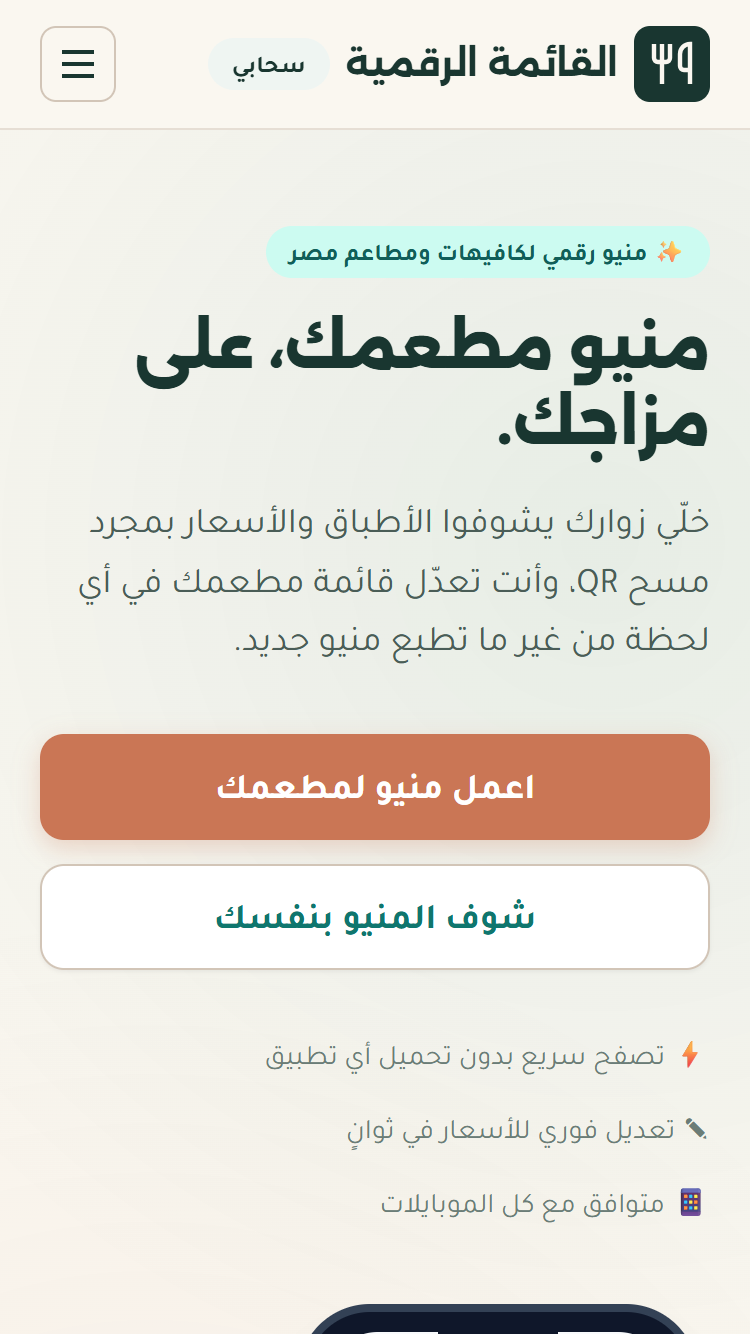
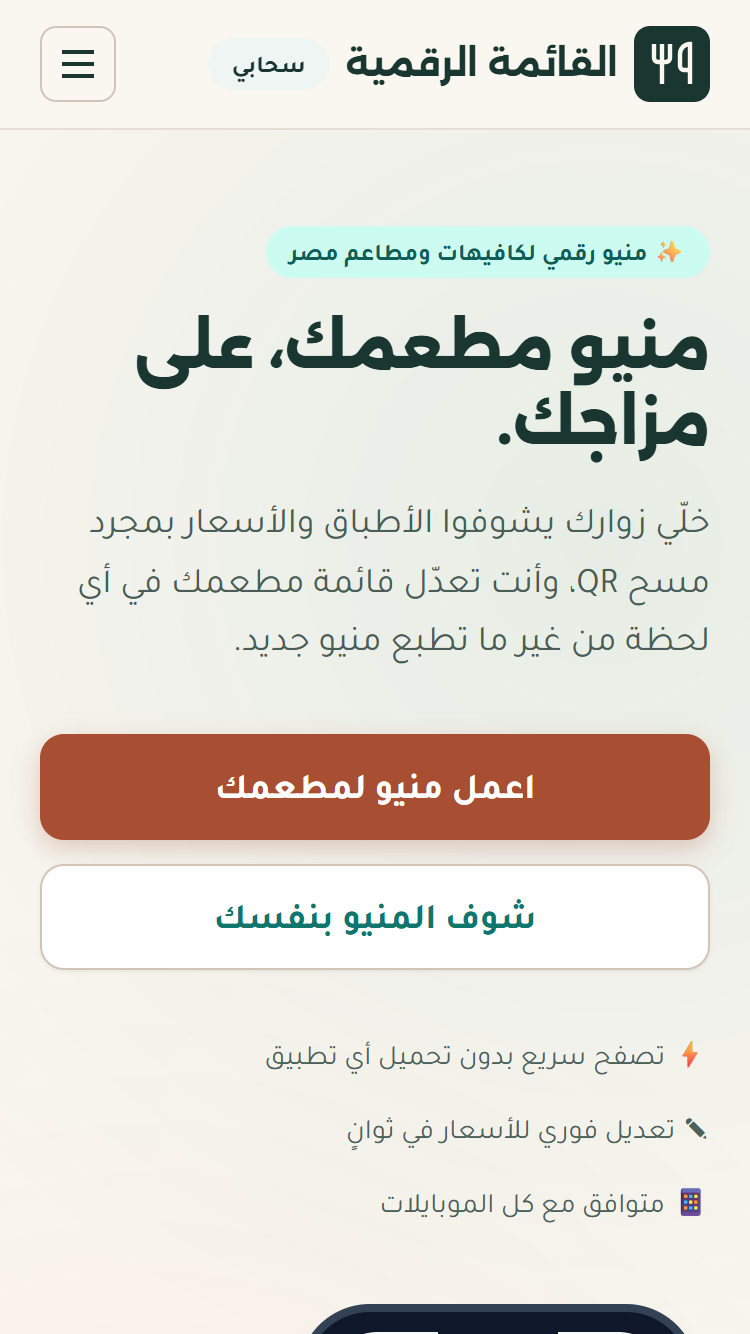
fix(ui): resolve PR #40 review findings for contrast, copy, and assets
- Ensure WCAG 2.2 AA contrast compliance for Terracotta (#A84E32), Terracotta hover (#933E24), badge text (#8F3C22), and muted text (#4D615B)
- Add automated tests in test-design-alignment.mjs for contrast pairs
- Replace unsupported claim with truthful 'باقة متكاملة' and formal copy with 'مناسبة لمين؟'
- Replace pseudo-QR with scannable /r/demo vector QR and illustrative label
- Remove duplicate Google Fonts @import from styles.css
- Remove 7 redundant root screenshots and direct captures to screenshots/after/

diff --git a/frontend/src/app/marketing.ts b/frontend/src/app/marketing.ts
@@ -42,7 +42,7 @@ interface ServiceRequestForm {
         <nav class="desktop-nav" aria-label="التنقل الرئيسي">
           <a href="#features" class="nav-link">المميزات</a>
           <a href="#how-it-works" class="nav-link">الخدمة بتشتغل إزاي؟</a>
-          <a href="#audience" class="nav-link">لمن صُممت؟</a>
+          <a href="#audience" class="nav-link">مناسبة لمين؟</a>
           <a href="#pricing" class="nav-link">الأسعار</a>
           <a href="#faq" class="nav-link">الأسئلة الشائعة</a>
           <a routerLink="/r/demo" class="nav-link nav-link-highlight">منيو تجريبي ☕</a>
@@ -94,7 +94,7 @@ interface ServiceRequestForm {
           <a href="#how-it-works" class="mobile-nav-link" (click)="closeMobileNav()"
             >الخدمة بتشتغل إزاي؟</a
           >
-          <a href="#audience" class="mobile-nav-link" (click)="closeMobileNav()">لمن صُممت؟</a>
+          <a href="#audience" class="mobile-nav-link" (click)="closeMobileNav()">مناسبة لمين؟</a>
           <a href="#pricing" class="mobile-nav-link" (click)="closeMobileNav()">الأسعار</a>
           <a href="#faq" class="mobile-nav-link" (click)="closeMobileNav()">الأسئلة الشائعة</a>
           <a
@@ -172,56 +172,23 @@ interface ServiceRequestForm {
               <div class="table-stand-mockup">
                 <div class="stand-acrylic">
                   <div class="stand-qr-box">
-                    <!-- SVG QR Representation -->
-                    <svg viewBox="0 0 100 100" width="80" height="80" fill="currentColor">
-                      <!-- Position detection patterns -->
-                      <rect
-                        x="5"
-                        y="5"
-                        width="30"
-                        height="30"
-                        rx="4"
-                        fill="none"
-                        stroke="#193630"
-                        stroke-width="6"
+                    <!-- Real Scannable /r/demo Vector QR Code -->
+                    <svg
+                      xmlns="http://www.w3.org/2000/svg"
+                      viewBox="0 0 25 25"
+                      width="80"
+                      height="80"
+                      shape-rendering="crispEdges"
+                      aria-label="كود QR تجريبي لتصفح المنيو"
+                    >
+                      <rect width="25" height="25" fill="#ffffff" />
+                      <path
+                        d="M2,2h1v1h-1z M3,2h1v1h-1z M4,2h1v1h-1z M5,2h1v1h-1z M6,2h1v1h-1z M7,2h1v1h-1z M8,2h1v1h-1z M10,2h1v1h-1z M11,2h1v1h-1z M16,2h1v1h-1z M17,2h1v1h-1z M18,2h1v1h-1z M19,2h1v1h-1z M20,2h1v1h-1z M21,2h1v1h-1z M22,2h1v1h-1z M2,3h1v1h-1z M8,3h1v1h-1z M12,3h1v1h-1z M16,3h1v1h-1z M22,3h1v1h-1z M2,4h1v1h-1z M4,4h1v1h-1z M5,4h1v1h-1z M6,4h1v1h-1z M8,4h1v1h-1z M10,4h1v1h-1z M11,4h1v1h-1z M16,4h1v1h-1z M18,4h1v1h-1z M19,4h1v1h-1z M20,4h1v1h-1z M22,4h1v1h-1z M2,5h1v1h-1z M4,5h1v1h-1z M5,5h1v1h-1z M6,5h1v1h-1z M8,5h1v1h-1z M11,5h1v1h-1z M13,5h1v1h-1z M16,5h1v1h-1z M18,5h1v1h-1z M19,5h1v1h-1z M20,5h1v1h-1z M22,5h1v1h-1z M2,6h1v1h-1z M4,6h1v1h-1z M5,6h1v1h-1z M6,6h1v1h-1z M8,6h1v1h-1z M10,6h1v1h-1z M11,6h1v1h-1z M12,6h1v1h-1z M14,6h1v1h-1z M16,6h1v1h-1z M18,6h1v1h-1z M19,6h1v1h-1z M20,6h1v1h-1z M22,6h1v1h-1z M2,7h1v1h-1z M8,7h1v1h-1z M11,7h1v1h-1z M12,7h1v1h-1z M14,7h1v1h-1z M16,7h1v1h-1z M22,7h1v1h-1z M2,8h1v1h-1z M3,8h1v1h-1z M4,8h1v1h-1z M5,8h1v1h-1z M6,8h1v1h-1z M7,8h1v1h-1z M8,8h1v1h-1z M10,8h1v1h-1z M12,8h1v1h-1z M14,8h1v1h-1z M16,8h1v1h-1z M17,8h1v1h-1z M18,8h1v1h-1z M19,8h1v1h-1z M20,8h1v1h-1z M21,8h1v1h-1z M22,8h1v1h-1z M11,9h1v1h-1z M13,9h1v1h-1z M14,9h1v1h-1z M3,10h1v1h-1z M6,10h1v1h-1z M8,10h1v1h-1z M12,10h1v1h-1z M13,10h1v1h-1z M18,10h1v1h-1z M20,10h1v1h-1z M22,10h1v1h-1z M2,11h1v1h-1z M4,11h1v1h-1z M5,11h1v1h-1z M6,11h1v1h-1z M11,11h1v1h-1z M12,11h1v1h-1z M16,11h1v1h-1z M17,11h1v1h-1z M19,11h1v1h-1z M22,11h1v1h-1z M3,12h1v1h-1z M8,12h1v1h-1z M9,12h1v1h-1z M10,12h1v1h-1z M11,12h1v1h-1z M14,12h1v1h-1z M18,12h1v1h-1z M21,12h1v1h-1z M22,12h1v1h-1z M2,13h1v1h-1z M3,13h1v1h-1z M4,13h1v1h-1z M5,13h1v1h-1z M6,13h1v1h-1z M7,13h1v1h-1z M11,13h1v1h-1z M16,13h1v1h-1z M18,13h1v1h-1z M19,13h1v1h-1z M22,13h1v1h-1z M3,14h1v1h-1z M5,14h1v1h-1z M7,14h1v1h-1z M8,14h1v1h-1z M9,14h1v1h-1z M11,14h1v1h-1z M14,14h1v1h-1z M16,14h1v1h-1z M17,14h1v1h-1z M21,14h1v1h-1z M10,15h1v1h-1z M13,15h1v1h-1z M15,15h1v1h-1z M17,15h1v1h-1z M18,15h1v1h-1z M20,15h1v1h-1z M21,15h1v1h-1z M22,15h1v1h-1z M2,16h1v1h-1z M3,16h1v1h-1z M4,16h1v1h-1z M5,16h1v1h-1z M6,16h1v1h-1z M7,16h1v1h-1z M8,16h1v1h-1z M12,16h1v1h-1z M13,16h1v1h-1z M15,16h1v1h-1z M16,16h1v1h-1z M17,16h1v1h-1z M18,16h1v1h-1z M19,16h1v1h-1z M22,16h1v1h-1z M2,17h1v1h-1z M8,17h1v1h-1z M11,17h1v1h-1z M13,17h1v1h-1z M14,17h1v1h-1z M15,17h1v1h-1z M22,17h1v1h-1z M2,18h1v1h-1z M4,18h1v1h-1z M5,18h1v1h-1z M6,18h1v1h-1z M8,18h1v1h-1z M10,18h1v1h-1z M11,18h1v1h-1z M12,18h1v1h-1z M13,18h1v1h-1z M15,18h1v1h-1z M16,18h1v1h-1z M17,18h1v1h-1z M21,18h1v1h-1z M22,18h1v1h-1z M2,19h1v1h-1z M4,19h1v1h-1z M5,19h1v1h-1z M6,19h1v1h-1z M8,19h1v1h-1z M16,19h1v1h-1z M17,19h1v1h-1z M18,19h1v1h-1z M21,19h1v1h-1z M2,20h1v1h-1z M4,20h1v1h-1z M5,20h1v1h-1z M6,20h1v1h-1z M8,20h1v1h-1z M11,20h1v1h-1z M12,20h1v1h-1z M14,20h1v1h-1z M17,20h1v1h-1z M18,20h1v1h-1z M20,20h1v1h-1z M22,20h1v1h-1z M2,21h1v1h-1z M8,21h1v1h-1z M10,21h1v1h-1z M12,21h1v1h-1z M16,21h1v1h-1z M21,21h1v1h-1z M2,22h1v1h-1z M3,22h1v1h-1z M4,22h1v1h-1z M5,22h1v1h-1z M6,22h1v1h-1z M7,22h1v1h-1z M8,22h1v1h-1z M14,22h1v1h-1z M16,22h1v1h-1z M17,22h1v1h-1z M18,22h1v1h-1z M21,22h1v1h-1z M22,22h1v1h-1z"
+                        fill="#193630"
                       />
-                      <rect x="15" y="15" width="10" height="10" fill="#193630" />
-                      <rect
-                        x="65"
-                        y="5"
-                        width="30"
-                        height="30"
-                        rx="4"
-                        fill="none"
-                        stroke="#193630"
-                        stroke-width="6"
-                      />
-                      <rect x="75" y="15" width="10" height="10" fill="#193630" />
-                      <rect
-                        x="5"
-                        y="65"
-                        width="30"
-                        height="30"
-                        rx="4"
-                        fill="none"
-                        stroke="#193630"
-                        stroke-width="6"
-                      />
-                      <rect x="15" y="75" width="10" height="10" fill="#193630" />
-                      <!-- Pattern modules -->
-                      <rect x="42" y="10" width="8" height="8" fill="#0f766e" />
-                      <rect x="45" y="25" width="6" height="6" fill="#193630" />
-                      <rect x="10" y="45" width="8" height="6" fill="#0f766e" />
-                      <rect x="25" y="45" width="8" height="8" fill="#193630" />
-                      <rect x="42" y="42" width="16" height="16" rx="2" fill="#ca7655" />
-                      <rect x="65" y="45" width="12" height="8" fill="#193630" />
-                      <rect x="85" y="45" width="6" height="12" fill="#0f766e" />
-                      <rect x="45" y="65" width="8" height="10" fill="#193630" />
-                      <rect x="65" y="65" width="10" height="8" fill="#0f766e" />
-                      <rect x="80" y="75" width="12" height="12" fill="#193630" />
                     </svg>
                   </div>
-                  <span class="stand-caption">امسح لتصفح المنيو</span>
+                  <span class="stand-caption">معاينة توضيحية لكود الطاولة</span>
                 </div>
                 <div class="stand-base"></div>
               </div>
@@ -460,7 +427,7 @@ interface ServiceRequestForm {
       <section id="audience" class="section-padded bg-muted">
         <div class="container">
           <div class="section-header text-center">
-            <span class="badge badge-forest">لمن صُممت؟</span>
+            <span class="badge badge-forest">مناسبة لمين؟</span>
             <h2 class="section-title">مصمم لكافيهات ومطاعم بتفكر لقدام</h2>
             <p class="section-subtitle">
               حلول عملية تناسب كل مكان بيهتم بتقديم تجربة شيك ومريحة لزبائنه.
@@ -539,7 +506,7 @@ interface ServiceRequestForm {
 
             <!-- Tier 2 (Highlighted) -->
             <div class="pricing-card card-featured">
-              <div class="featured-badge">الأكثر طلباً</div>
+              <div class="featured-badge">باقة متكاملة</div>
               <div class="pricing-header">
                 <h3 class="tier-name">باقة المطاعم الاحترافية</h3>
                 <p class="tier-desc">للمطاعم والمقاهي المتنامية الباحثة عن تميز كامل.</p>

diff --git a/frontend/src/styles.css b/frontend/src/styles.css
@@ -5,8 +5,6 @@
  * Conforms to WCAG 2.2 AA, RTL-first, Mobile-first
  */
 
-@import url('https://fonts.googleapis.com/css2?family=Alexandria:wght@500;600;700;800&family=Inter:wght@400;500;600;700&family=Tajawal:wght@400;500;700&display=swap');
-
 :root {
   /* Brand Palette */
   --color-brand-primary: #0f766e;
@@ -21,13 +19,14 @@
   --color-brand-forest-subtle: #eff5f2;
   --color-brand-forest-hover: #122823;
   --color-brand-ivory: #faf7f0;
-  --color-brand-terracotta: #ca7655;
-  --color-brand-terracotta-hover: #b56243;
+  --color-brand-terracotta: #a84e32;
+  --color-brand-terracotta-hover: #933e24;
   --color-brand-terracotta-subtle: #fbe6e2;
+  --color-brand-terracotta-text: #8f3c22;
 
   /* Accent / Terracotta Warmth */
-  --color-brand-accent: #ca7655;
-  --color-brand-accent-hover: #b56243;
+  --color-brand-accent: #a84e32;
+  --color-brand-accent-hover: #933e24;
   --color-brand-accent-subtle: #fbe6e2;
 
   /* Dynamic Tenant Slot */
@@ -48,7 +47,7 @@
   /* Text Colors */
   --color-text-primary: #193630;
   --color-text-secondary: #4a5d57;
-  --color-text-muted: #6b7d77;
+  --color-text-muted: #4d615b;
   --color-text-inverse: #ffffff;
   --color-text-disabled: #98aaa3;
 
@@ -268,7 +267,7 @@ h6,
 .btn-accent {
   background-color: var(--color-brand-accent);
   color: #ffffff;
-  box-shadow: 0 4px 12px rgb(202 118 85 / 0.28);
+  box-shadow: 0 4px 12px rgb(168 78 50 / 0.28);
 }
 
 .btn-accent:hover {
@@ -300,7 +299,7 @@ h6,
 
 .badge-terracotta {
   background-color: var(--color-brand-terracotta-subtle);
-  color: var(--color-brand-terracotta);
+  color: var(--color-brand-terracotta-text);
 }
 
 .badge-forest {

diff --git a/frontend/design/tokens.css b/frontend/design/tokens.css
@@ -17,9 +17,10 @@
   --color-brand-forest: #193630;
   --color-brand-forest-subtle: #eff5f2;
   --color-brand-ivory: #faf7f0;
-  --color-brand-terracotta: #ca7655;
-  --color-brand-terracotta-hover: #b56243;
+  --color-brand-terracotta: #a84e32;
+  --color-brand-terracotta-hover: #933e24;
   --color-brand-terracotta-subtle: #fbe6e2;
+  --color-brand-terracotta-text: #8f3c22;
 
   /* Tenant Theme Dynamic Slot */
   --tenant-primary: var(--color-brand-primary);
@@ -39,7 +40,7 @@
   /* Typography / Text Colors */
   --color-text-primary: #193630;
   --color-text-secondary: #4a5d57;
-  --color-text-muted: #6b7d77;
+  --color-text-muted: #4d615b;
   --color-text-inverse: #ffffff;
   --color-text-disabled: #98aaa3;
 
